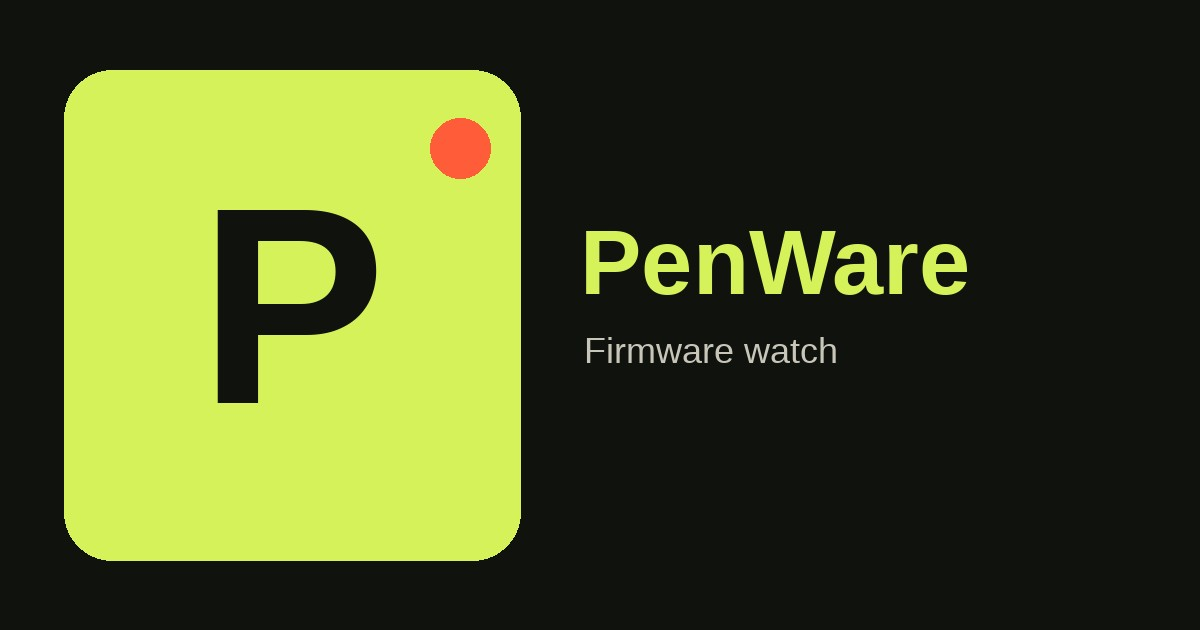
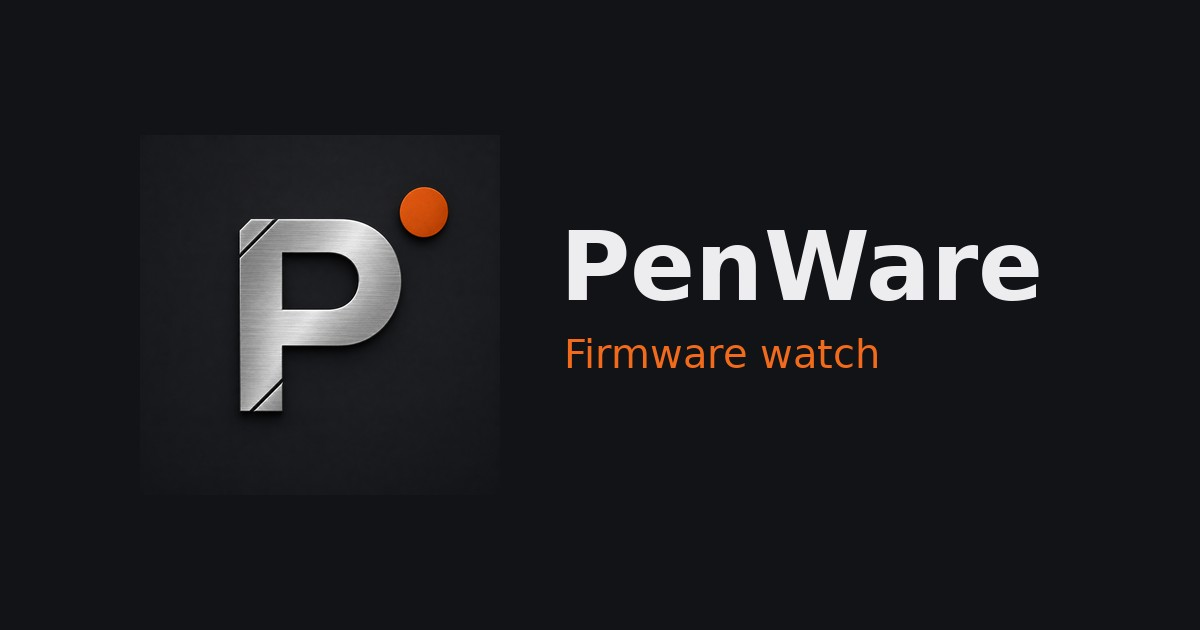
Release v0.3.0: update PenWare app, styles, and brand assets
Claude-Session: https://claude.ai/code/session_0182Fd1ve3pE3zpZFARAxs2i

diff --git a/src/components/penware/penware-app.tsx b/src/components/penware/penware-app.tsx
@@ -8,7 +8,6 @@ import {
   ExternalLink,
   Github,
   Plus,
-  Radio,
   RefreshCw,
   Trash2,
 } from "lucide-react";
@@ -279,8 +278,8 @@ export function PenwareApp() {
       <header className="sticky top-0 z-10 -mx-4 mb-4 border-b border-line bg-bg px-4 pb-3 pt-1">
         <div className="flex items-center justify-between gap-3">
           <div className="flex items-center gap-3">
-            <span className="flex size-11 items-center justify-center rounded-card bg-surface text-lime">
-              <Radio className="size-5" aria-hidden="true" />
+            <span className="flex size-11 items-center justify-center overflow-hidden rounded-card bg-surface">
+              <img src="/penware-logo.png" alt="PenWare" className="size-11 object-cover" />
             </span>
             <div>
               <p className="font-mono text-xs tracking-widest text-lime">
@@ -710,11 +709,15 @@ function FeedRow({
             hit.files.map((f) => (
               <a key={f.url} href={f.url} target="_blank" rel="noreferrer" className="text-sm text-lime">
                 {f.name}
+                {fileHint(f.name) ? <span className="text-muted"> · {fileHint(f.name)}</span> : null}
               </a>
             ))
           ) : hit.fileUrl ? (
             <a href={hit.fileUrl} target="_blank" rel="noreferrer" className="text-sm text-lime">
               {hit.fileName ?? "File"}
+              {fileHint(hit.fileName ?? "") ? (
+                <span className="text-muted"> · {fileHint(hit.fileName ?? "")}</span>
+              ) : null}
             </a>
           ) : null}
           <button type="button" onClick={() => onInstalled(hit.version)} className="inline-flex items-center gap-1 text-sm">
@@ -957,6 +960,16 @@ async function toggleNotify(
   const next = await Notification.requestPermission();
   setPerm(next);
   setNotify(next === "granted");
+}
+
+// What to do with a downloaded firmware file, so nobody tries to "expand" a raw
+// image. Order matters: .ppfw.tar is flashed on the device, not extracted.
+function fileHint(name: string): string {
+  const n = name.toLowerCase();
+  if (n.endsWith(".ppfw.tar") || n.endsWith(".ota")) return "flash on device";
+  if (/\.(bin|uf2|hex|elf|img|dfu|zip\.bin)$/.test(n)) return "flash — don't open";
+  if (/\.(zip|tar|tar\.gz|tgz|gz|xz|7z|rar)$/.test(n)) return "extract first";
+  return "";
 }
 
 function download(filename: string, text: string) {

diff --git a/src/styles.css b/src/styles.css
@@ -4,15 +4,15 @@
 @theme {
   --font-sans: "IBM Plex Sans", ui-sans-serif, system-ui, sans-serif;
   --font-mono: "IBM Plex Mono", ui-monospace, monospace;
-  --color-bg: #10120e;
-  --color-surface: #181b16;
-  --color-surface-2: #22271e;
-  --color-fg: #e7ecdf;
-  --color-muted: #8e9684;
-  --color-line: #2c3228;
-  --color-lime: #d2f25c;
-  --color-lime-ink: #1a2208;
-  --color-alert: #ff5c39;
+  --color-bg: #0f1012;
+  --color-surface: #17191c;
+  --color-surface-2: #212429;
+  --color-fg: #ededf0;
+  --color-muted: #9398a1;
+  --color-line: #2a2e34;
+  --color-lime: #f26a1b;
+  --color-lime-ink: #140a02;
+  --color-alert: #ff4d4d;
   --radius-card: 1rem;
 }
 
